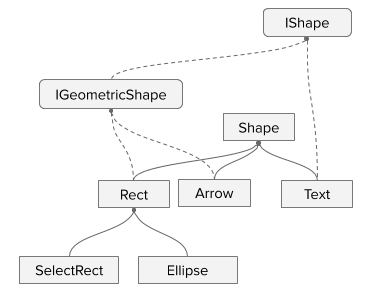
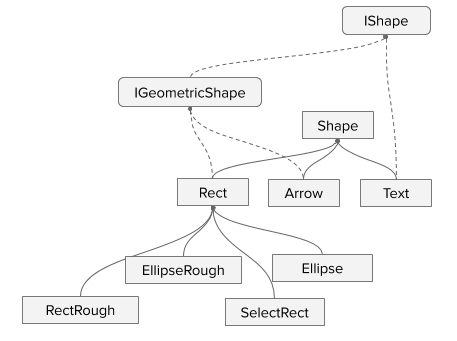
full functionality of EllipseRough

diff --git a/srcCanvas/RectLike/EllipseRough.ts b/srcCanvas/RectLike/EllipseRough.ts
@@ -3,21 +3,19 @@
 import Konva from 'konva';
 import rough from 'roughjs';
 import EShapeTypes from '../Shape/shapeTypes';
-import {TRectProps} from './Rect';
-import RectRough from './RectRough';
+import Rect, {TRectProps} from './Rect';
 import {getShapesLayerEl} from '../CanvasEl/CanvasEl';
 import * as roughService from '../services/rough';
 
 const ROUGHNESS = 2.5;
 
-class EllipseRough extends RectRough {
+class EllipseRough extends Rect {
     type = EShapeTypes.ELLIPSE_ROUGH;
 
     readonly props: TRectProps;
     readonly #roughCanvas;
     #lastDrawable;
     #isDragging: boolean = false;
-    substrateKonvaShape: Konva.Ellipse;
     shape: Konva.Shape;
 
     constructor(props: TRectProps) {
@@ -58,17 +56,27 @@ class EllipseRough extends RectRough {
             }
         });
 
-        this.substrateKonvaShape = new Konva.Ellipse({
-            x: this.props.x || 0,
-            y: this.props.y || 0,
-            width: this.props.width || 0,
-            height: this.props.height || 0,
-            stroke: 'green',
-            fill: 'transparent',
-            draggable: true,
+        this.shape.on('dragstart', () => {
+            this.#isDragging = true;
         });
+        this.shape.on('dragend', () => {
+            this.#isDragging = false;
+        });
+    }
 
-        this.attachRoughEvents(this.substrateKonvaShape);
+    clone(): EllipseRough {
+        const attrs = this.shape?.getAttrs();
+        return new EllipseRough({
+            ...this.props,
+            ...(attrs && {
+                x: attrs.x,
+                y: attrs.y,
+                width: attrs.width,
+                height: attrs.height,
+                stroke: attrs.stroke,
+                strokeWidth: attrs.strokeWidth,
+            }),
+        });
     }
 }
 

diff --git a/srcCanvas/RectLike/RectRough.ts b/srcCanvas/RectLike/RectRough.ts
@@ -69,10 +69,6 @@ class RectRough extends Rect {
             draggable: true,
         });
 
-        this.attachRoughEvents(this.substrateKonvaShape);
-    }
-
-    attachRoughEvents(konvaShape: Konva.Rect | Konva.Ellipse) {
         this.shape.on('dragstart', () => {
             this.#isDragging = true;
         });
@@ -80,23 +76,23 @@ class RectRough extends Rect {
             this.#isDragging = false;
         });
 
-        konvaShape.on('dragstart', () => {
+        this.substrateKonvaShape.on('dragstart', () => {
             this.#isDragging = true;
         });
-        konvaShape.on('dragend', () => {
+        this.substrateKonvaShape.on('dragend', () => {
             this.#isDragging = false;
         });
-        konvaShape.on('click', (e) => {
+        this.substrateKonvaShape.on('click', (e) => {
             this.onClick(e);
         });
-        konvaShape.on('dragstart', () => {
+        this.substrateKonvaShape.on('dragstart', () => {
             this.onDragStart();
         });
-        konvaShape.on('mouseover', () => {
+        this.substrateKonvaShape.on('mouseover', () => {
             const mouseoverCb = this.cbMap.get('mouseover');
             mouseoverCb && mouseoverCb();
         });
-        konvaShape.on('mouseout', () => {
+        this.substrateKonvaShape.on('mouseout', () => {
             const mouseoutCb = this.cbMap.get('mouseout');
             mouseoutCb && mouseoutCb();
         });

diff --git a/srcCanvas/RectLike/Rect.ts b/srcCanvas/RectLike/Rect.ts
@@ -140,8 +140,8 @@ class Rect extends Shape implements IGeometricShape {
     }
 
     draggable(value: boolean) {
-        this.shape.setAttr('draggable', value);
-        return this.shape.getAttr('draggable');
+        this.shape?.setAttr('draggable', value);
+        return this.shape?.getAttr('draggable');
     }
 
     scale(scaleProps: TScaleProps) {

diff --git a/srcCanvas/RectLike/Ellipse.ts b/srcCanvas/RectLike/Ellipse.ts
@@ -7,7 +7,7 @@ import {TSizePosition} from '../SizeTransform/SizeTransformAnchorsGroup';
 import Rect, {TRectProps} from './Rect';
 
 class Ellipse extends Rect {
-    readonly type = EShapeTypes.ELLIPSE;
+    type = EShapeTypes.ELLIPSE;
 
     readonly props: TRectProps;
     shape: Konva.Ellipse;
